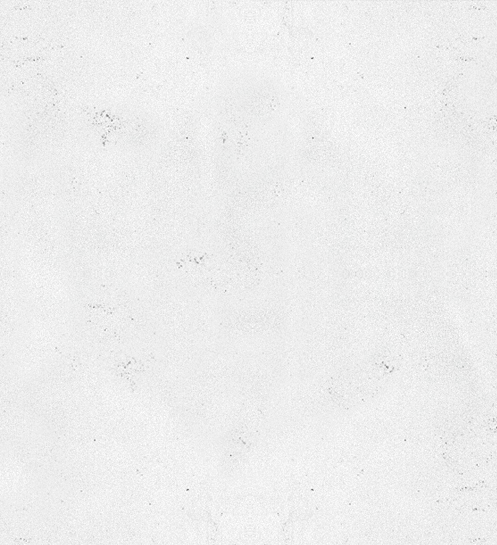
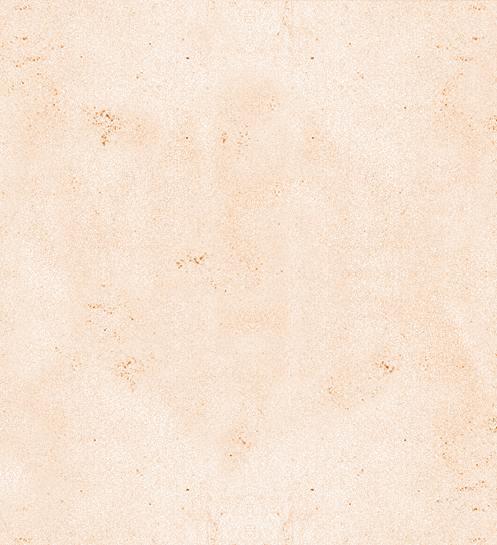
Push the palette to Bologna terracotta
The lever is the wall, not the tones. It shipped as neutral grey
(180,180,180), and grey is a bleach: at .2835 alpha it was cutting every
ground's chroma by about a quarter and holding the page pale. Retinting it
terracotta (223,143,73, hue 28) is nearly free warmth. On the same band
colour, chroma goes 27 -> 46 and hue 42 -> 34 while --ink-52 costs 0.04.
Chasing the same warmth by deepening the bands instead costs ten times the
contrast and fails the floor outright.

So the wall was re-encoded from the original PNG, not the shipped file, so
tints do not compound: crop 50px a side as before, then per pixel write
RGB = tint * grey/180, which keeps the wall's own light and dark variation
rather than flattening it to one colour. Alpha untouched, verified: mean
still 61.26. 178KB, down from 182.

Hue 28 is deliberate. The search wanted 22, which gives identical chroma and
sits in the zone that read as pink in both rejected builds. 28 is free
insurance.

The four tones are re-picked against the new wall and are now much paler in
source, because the wall does the colouring and they only steer it:

  tone 1 #faf5e7 -> (243,216,186) hue 32 chroma 57
  tone 2 #f7ecd2 -> (241,210,171) hue 33 chroma 70
  tone 3 #efe9e5 -> (235,208,184) hue 28 chroma 51
  tone 4 #f8e5d9 -> (241,205,176) hue 27 chroma 65

Chroma was 7 to 28 before, so this is four to seven times the colour.

Checked what the warmer ground could have broken. The arch run is --portico,
[…]

diff --git a/assets/styles.css b/assets/styles.css
@@ -33,10 +33,10 @@
      while the eye sees two colours. Calibration: the old paper/wash pair,
      which read as two grounds, scores dE 2.96. These four are 4.67 apart at
      worst, and every section boundary is at least that. */
-  --tone-1:#f8f3ef;       /* palest  */
-  --tone-2:#f7f1e1;       /* cream   */
-  --tone-3:#f2e6cc;       /* sand    */
-  --tone-4:#ede1d5;       /* clay    */
+  --tone-1:#faf5e7;       /* palest  */
+  --tone-2:#f7ecd2;       /* cream   */
+  --tone-3:#efe9e5;       /* sand    */
+  --tone-4:#f8e5d9;       /* clay    */
   --card:#e9e3d1;
   --line:#d9d1b9;
   --line-soft:#e6e0cd;

diff --git a/CLAUDE.md b/CLAUDE.md
@@ -225,23 +225,30 @@ too, or it will silently do nothing.
 Not nine. They are the colour UNDER the wall texture, not what you see.
 
 ```
---tone-1 #f8f3ef  palest   when, stay, rsvp
---tone-2 #f7f1e1  cream    dress, gifts
---tone-3 #f2e6cc  sand     order, faq
---tone-4 #ede1d5  clay     transport, bologna
+--tone-1 #faf5e7  palest      when, stay, rsvp
+--tone-2 #f7ecd2  ochre       dress, gifts
+--tone-3 #efe9e5  soft clay   order, faq
+--tone-4 #f8e5d9  apricot     transport, bologna
 ```
+
+**These are much paler than they render.** The wall is tinted terracotta and
+does most of the colouring; the tones only steer it. Judge them rendered, not
+as hex values.
 
 Assigned by `#id`, not `nth-child`, so reordering the nav cannot silently
 reshuffle the palette. `.alt` is still what `main.js` alternates and what
 draws the arch run; it no longer carries a colour. The arch run therefore
 still lands exactly on every change of ground.
 
-| | rendered ground | hue | `--ink-52` |
-|---|---|---|---|
-| tone 1 | (229,225,222) | 26 | 5.142 |
-| tone 2 | (228,224,213) | 44 | 5.077 |
-| tone 3 | (225,216,197) | 41 | 4.872 |
-| tone 4 | (221,213,204) | 32 | 4.813 |
+| | rendered ground | hue | chroma | `--ink-52` |
+|---|---|---|---|---|
+| tone 1 | (243,216,186) | 32 | 57 | 4.980 |
+| tone 2 | (241,210,171) | 33 | 70 | 4.863 |
+| tone 3 | (235,208,184) | 28 | 51 | 4.761 |
+| tone 4 | (241,205,176) | 27 | 65 | 4.764 |
+
+Worst section boundary measures dE 4.04. The arch run is unaffected: `--portico`
+at `.5` scores 1.68-1.73 against these grounds, against 1.71-1.79 before.
 
 #### Why four and not nine
 
@@ -294,19 +301,34 @@ footer too and is continuous down the whole page. Sections paint their own
 
 #### The image is a transparent mask, not a picture
 
-**`concrete-wall.webp` is a flat neutral grey (180,180,180) whose entire image
-lives in its ALPHA channel**, averaging 61 of 255. That is why it needs no
-blend mode: it composites straight over `--band`, the transparent parts being
-the ground colour and the opaque parts the wall.
+**`concrete-wall.webp` is a flat TERRACOTTA (223,143,73, hue 28) whose entire
+image lives in its ALPHA channel**, averaging 61 of 255. That is why it needs
+no blend mode: it composites straight over `--band`, the transparent parts
+being the ground colour and the opaque parts the wall.
 
 **Do not add `background-blend-mode`.** There is nothing to blend. The RGB is a
-featureless grey rectangle, so any blend mode throws the texture away and
-tints the band with flat grey.
+featureless terracotta rectangle, so any blend mode throws the texture away
+and tints the band with flat orange.
 
-It also means the texture is recolourable: change the RGB, keep the alpha, and
-the wall becomes whatever colour you set. It is neutral now because the band
-colours are so desaturated that a neutral grey leaves their hue alone. Measured:
-both bands sit at hue 45, against 44 and 42 with no texture at all.
+#### The wall's own colour is the main lever on the palette
+
+It shipped as neutral grey (180,180,180), and grey is a bleach: at `.2835`
+alpha it cut every ground's chroma by about a quarter and held the page pale.
+Tinting the wall terracotta instead was **nearly free warmth**. On the same
+band colour:
+
+| wall | ground | hue | chroma | `--ink-52` |
+|---|---|---|---|---|
+| neutral grey 180 | (224,216,197) | 42 | 27 | 4.862 |
+| terracotta 223,143,73 | (232,212,186) | 34 | 46 | 4.823 |
+
+Chroma up 70%, contrast down 0.04. Deepening the *bands* to chase the same
+warmth costs ten times as much contrast and fails the floor. **If the page
+should be warmer or cooler, retint the wall before touching the tones.**
+
+Its hue is 28 deliberately. The search wanted 22, which delivers identical
+chroma and sits in the zone that read as pink in the rejected builds. 28 is
+free insurance.
 
 #### What was done to Orlando's original
 
@@ -324,10 +346,14 @@ it with `git show dce74ab:images/concrete-wall-2.png > orig.png`. Two changes:
    alpha is exactly 0 at every quality from 70 to 95. Only the RGB is lossy,
    and after alpha weighting that error lands as **1.1 levels of 255**.
 
-To change its strength or colour, re-encode: draw it to a canvas, scale the
-alpha channel or overwrite the RGB, and export with
-`canvas.toDataURL('image/webp', 0.8)`. That needs Chromium, which the repo
-deliberately does not carry, so there is no tool checked in for it.
+To retint or restrength it, re-encode from the ORIGINAL, not from the shipped
+file, so tints do not compound: `git show dce74ab:images/concrete-wall-2.png`.
+Crop 50px off each side, then for each pixel take its grey `g` and write
+`RGB = tint * g/180`, which keeps the wall's own light and dark variation
+instead of flattening it. Keep the alpha untouched and check its mean is still
+**61.26**. Export with `canvas.toDataURL('image/webp', 0.8)`. That needs
+Chromium, which the repo deliberately does not carry, so there is no tool
+checked in for it.
 
 #### The texture was paid for out of the ink
 
@@ -417,7 +443,7 @@ screen cannot fill it without cropping. It degrades to painting-then-names.
 | `dancing-*.png` (4 more) | motifs | Cycled beside section headings |
 | `dancing-bride-groom.png` | nav + motif | 30px beside the names in the top bar |
 | `via-saragozza.webp` | Bologna | 2100 × 2082, beside the intro |
-| `concrete-wall.webp` | every section | 497 × 545, 182KB. A grey whose image is all in its alpha. See The wall texture |
+| `concrete-wall.webp` | everywhere | 497 × 545, 178KB. A terracotta whose image is all in its alpha. See The wall texture |
 | `moka-pot.png` / `tea-cup.png` | language toggle | IT and EN |
 
 Keep the hero and the banner large: they are the only two shown big. Compress
